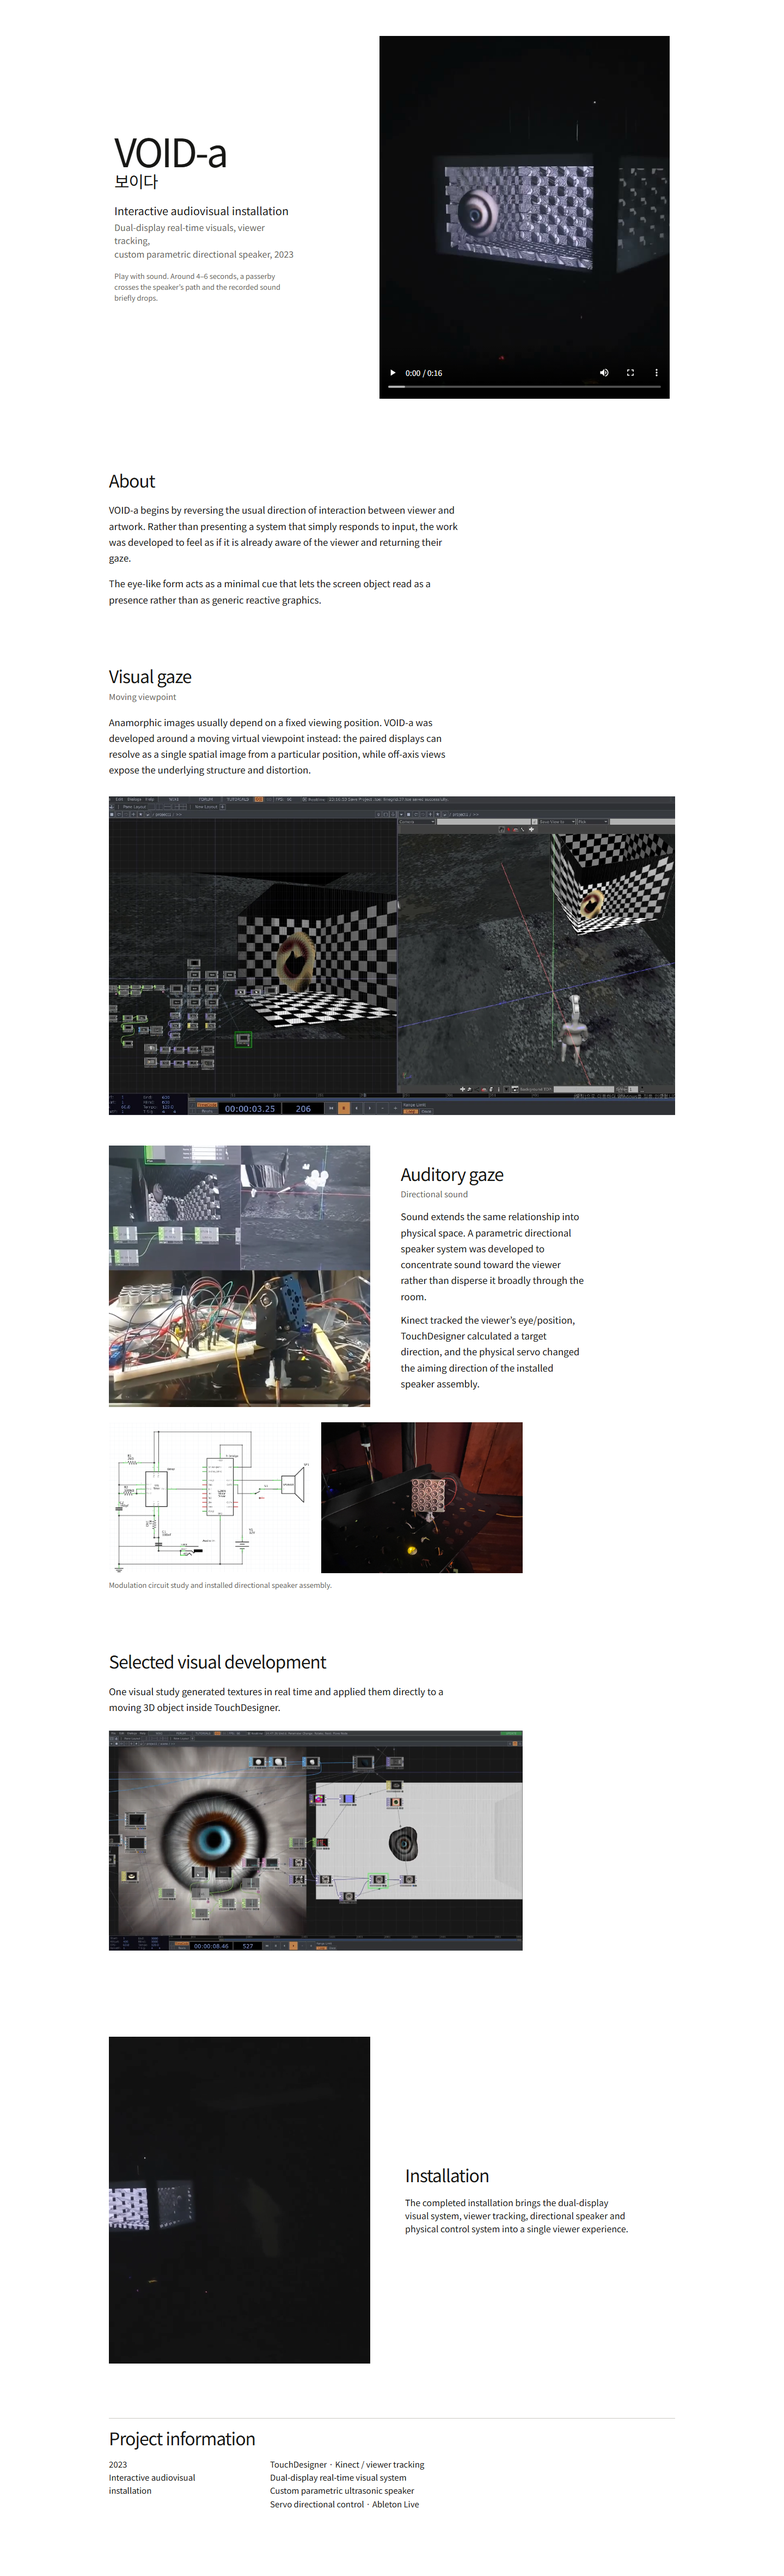
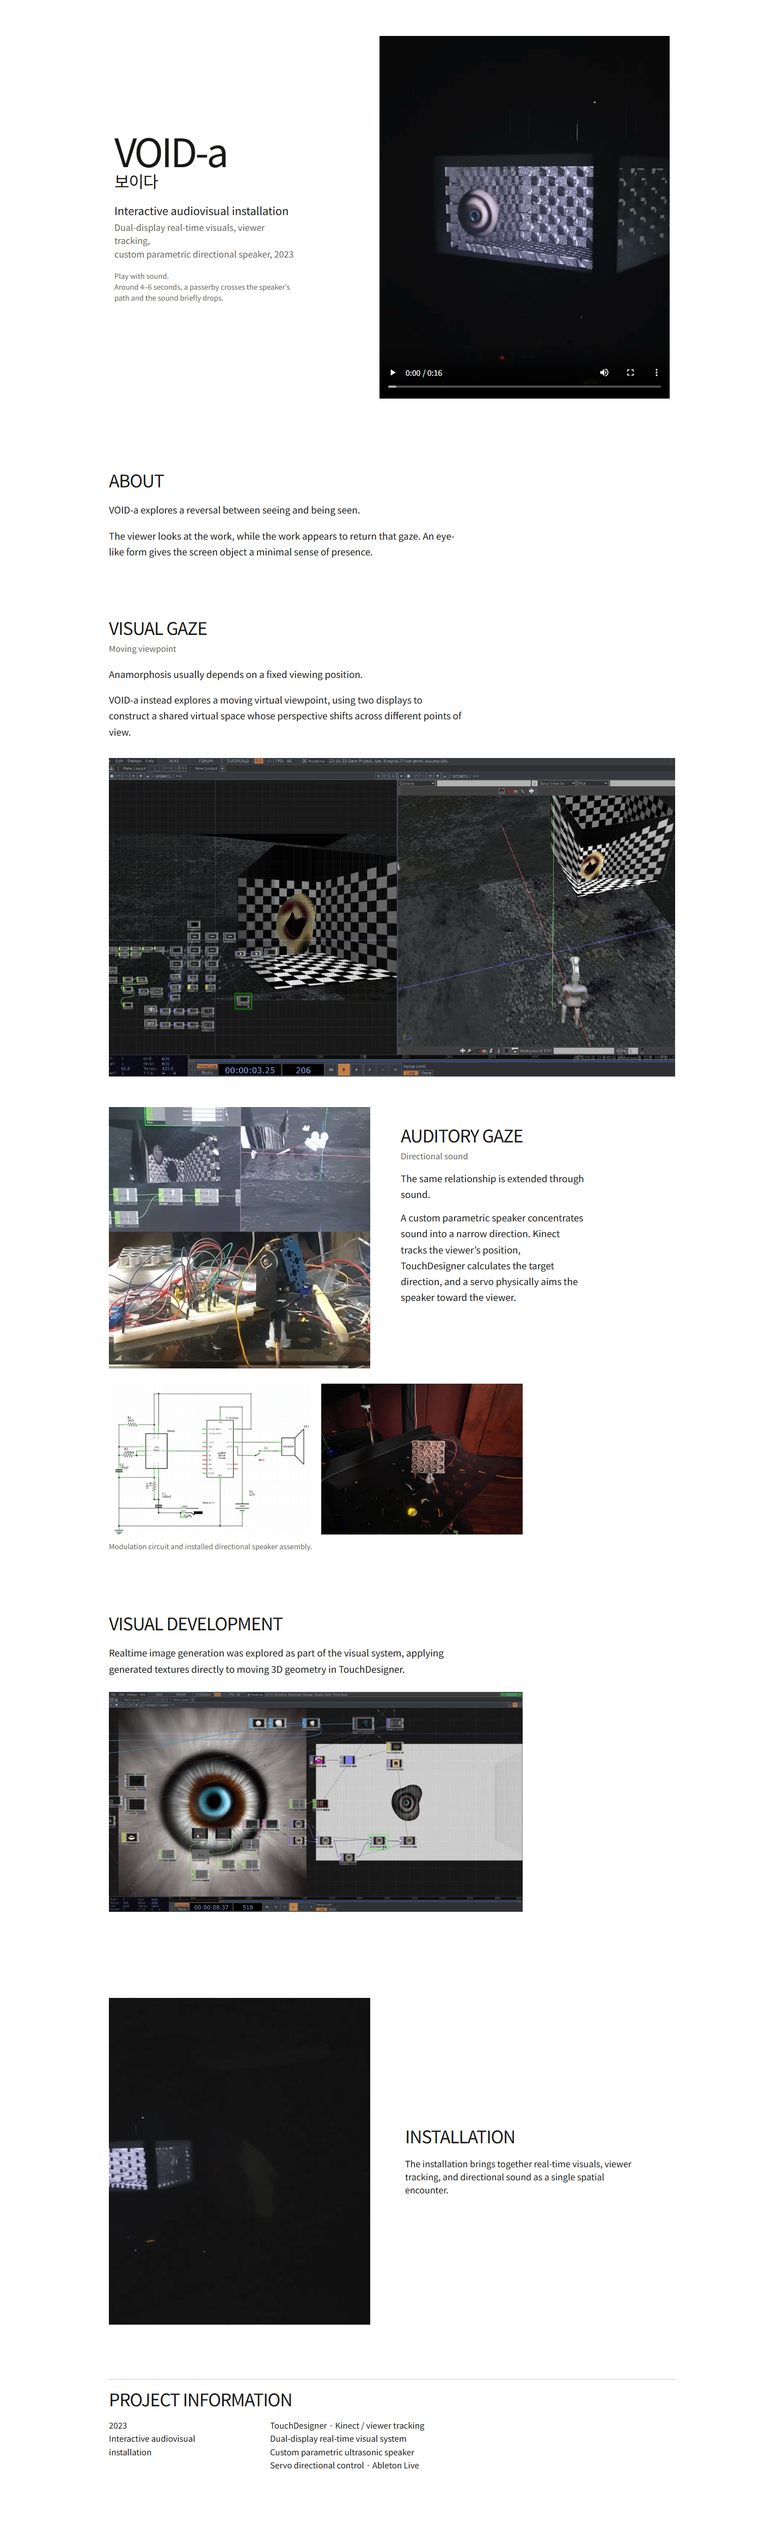
copy 변경

diff --git a/src/routes/work/void-a/+page.svelte b/src/routes/work/void-a/+page.svelte
@@ -3,20 +3,22 @@
 
 	const copy = {
 		about: [
-			'VOID-a begins by reversing the usual direction of interaction between viewer and artwork. Rather than presenting a system that simply responds to input, the work was developed to feel as if it is already aware of the viewer and returning their gaze.',
-			'The eye-like form acts as a minimal cue that lets the screen object read as a presence rather than as generic reactive graphics.'
+			'VOID-a explores a reversal between seeing and being seen.',
+			'The viewer looks at the work, while the work appears to return that gaze. An eye-like form gives the screen object a minimal sense of presence.'
 		],
-		visual:
-			'Anamorphic images usually depend on a fixed viewing position. VOID-a was developed around a moving virtual viewpoint instead: the paired displays can resolve as a single spatial image from a particular position, while off-axis views expose the underlying structure and distortion.',
+		visual: [
+			'Anamorphosis usually depends on a fixed viewing position.',
+			'VOID-a instead explores a moving virtual viewpoint, using two displays to construct a shared virtual space whose perspective shifts across different points of view.'
+		],
 		auditory: [
-			'Sound extends the same relationship into physical space. A parametric directional speaker system was developed to concentrate sound toward the viewer rather than disperse it broadly through the room.',
-			'Kinect tracked the viewer’s eye/position, TouchDesigner calculated a target direction, and the physical servo changed the aiming direction of the installed speaker assembly.'
+			'The same relationship is extended through sound.',
+			'A custom parametric speaker concentrates sound into a narrow direction. Kinect tracks the viewer’s position, TouchDesigner calculates the target direction, and a servo physically aims the speaker toward the viewer.'
 		],
-		audioSystem: 'Modulation circuit study and installed directional speaker assembly.',
+		audioSystem: 'Modulation circuit and installed directional speaker assembly.',
 		development:
-			'One visual study generated textures in real time and applied them directly to a moving 3D object inside TouchDesigner.',
+			'Realtime image generation was explored as part of the visual system, applying generated textures directly to moving 3D geometry in TouchDesigner.',
 		installation:
-			'The completed installation brings the dual-display visual system, viewer tracking, directional speaker and physical control system into a single viewer experience.'
+			'The installation brings together real-time visuals, viewer tracking, and directional sound as a single spatial encounter.'
 	};
 
 	onMount(() => {
@@ -52,7 +54,7 @@
 				<p class="subtitle" lang="ko">보이다</p>
 				<p class="format">Interactive audiovisual installation</p>
 				<p class="opening-details">Dual-display real-time visuals, viewer tracking,<br />{' '}custom parametric directional speaker, 2023</p>
-				<p class="play-note">Play with sound. Around 4–6 seconds, a passerby crosses the speaker’s path and the recorded sound briefly drops.</p>
+				<p class="play-note">Play with sound.<br />Around 4–6 seconds, a passerby crosses the speaker’s path and the sound briefly drops.</p>
 			</div>
 			<figure class="primary-media">
 				<video
@@ -74,7 +76,7 @@
 		</header>
 
 		<section class="text-section about" aria-labelledby="about-title">
-			<h2 id="about-title">About</h2>
+			<h2 id="about-title">ABOUT</h2>
 			<div class="copy-rail">
 				<p>{copy.about[0]}</p>
 				<p>{copy.about[1]}</p>
@@ -83,11 +85,13 @@
 
 		<section class="content-section visual-gaze" aria-labelledby="visual-title">
 			<div class="section-heading">
-				<h2 id="visual-title">Visual gaze</h2>
+				<h2 id="visual-title">VISUAL GAZE</h2>
 				<p>Moving viewpoint</p>
 			</div>
 			<div class="section-body">
-				<p class="copy-rail">{copy.visual}</p>
+				{#each copy.visual as paragraph}
+					<p class="copy-rail">{paragraph}</p>
+				{/each}
 				<figure class="body-media split-view">
 					<img
 						src="/media/portfolio/void-a/void-a-anamorphic-viewpoint-td.webp"
@@ -104,7 +108,7 @@
 			<div class="auditory-bridge">
 				<div class="auditory-copy">
 					<div class="section-heading">
-						<h2 id="auditory-title">Auditory gaze</h2>
+						<h2 id="auditory-title">AUDITORY GAZE</h2>
 						<p>Directional sound</p>
 					</div>
 					<p>{copy.auditory[0]}</p>
@@ -135,7 +139,7 @@
 
 		<section class="content-section development" aria-labelledby="development-title">
 			<div class="section-heading">
-				<h2 id="development-title">Selected visual development</h2>
+				<h2 id="development-title">VISUAL DEVELOPMENT</h2>
 			</div>
 			<div class="section-body">
 				<p class="copy-rail">{copy.development}</p>
@@ -172,7 +176,7 @@
 						></video>
 					</figure>
 					<div class="installation-copy">
-						<h2 id="installation-title">Installation</h2>
+						<h2 id="installation-title">INSTALLATION</h2>
 						<p class="copy-rail">{copy.installation}</p>
 					</div>
 				</div>
@@ -181,7 +185,7 @@
 
 		<section class="project-information" aria-labelledby="information-title">
 			<div class="section-heading">
-				<h2 id="information-title">Project information</h2>
+				<h2 id="information-title">PROJECT INFORMATION</h2>
 			</div>
 			<div class="project-facts">
 				<p>2023<br />Interactive audiovisual installation</p>
